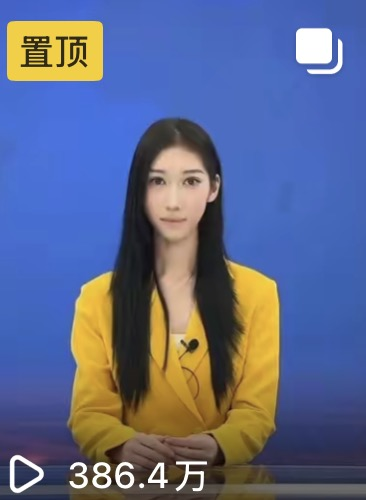
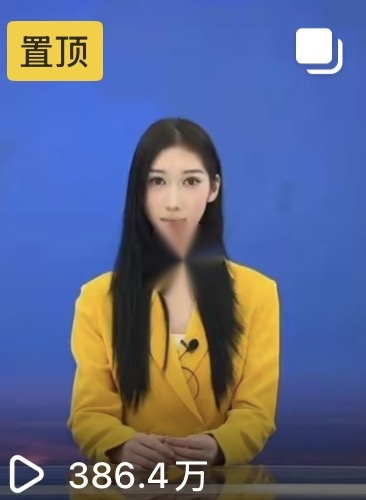
！

Changed region(s): [[0.4208, 0.42, 0.6311, 0.6]]

diff --git a/index.html b/index.html
@@ -499,6 +499,10 @@ body{background:var(--bg);color:var(--text);font-family:'Inter','Noto Sans SC',-
       </div>
       <div class="xhs-show" style="margin-top:20px;">
         <div class="showcase" data-anim="wipe-b">
+          <img loading="lazy" decoding="async" src="xhs-niumameng-home.png" alt="牛马梦主页" style="aspect-ratio:auto;height:auto;object-fit:contain">
+          <div class="cap"><strong>主页概览</strong> · 1370粉丝 · 5755获赞收藏</div>
+        </div>
+        <div class="showcase" data-anim="wipe-b">
           <img loading="lazy" decoding="async" src="xhs-niumameng-group.png" alt="拿下offer求职社群" style="aspect-ratio:auto;height:auto;object-fit:contain">
           <div class="cap"><strong>拿下offer！求职社群</strong> · 1000名成员 · 资料共享</div>
         </div>
